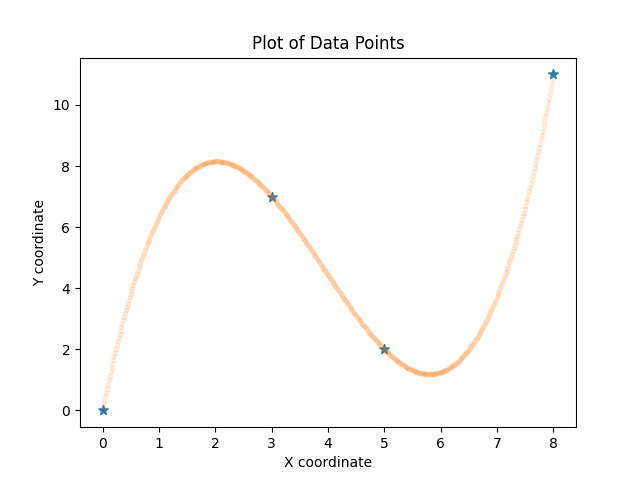
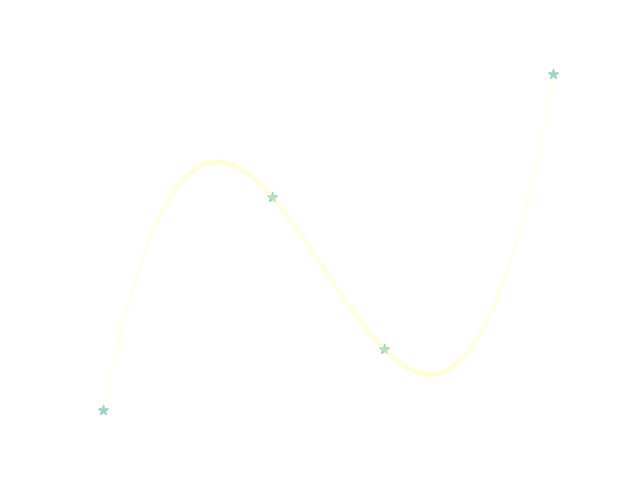
feat: make image transparent

diff --git a/scripts/interpolate.py b/scripts/interpolate.py
@@ -34,16 +34,21 @@ def plot_points(datapoints):
     xx = [x_min + i*step for i in range(n+1)]
     yy = [lagrange_interpolate(datapoints, xi) for xi in xx]
 
+
+    plt.style.use('dark_background')
+
     # Plot the points
     plt.scatter(x, y, marker='*', s=50)
-
     # Plot interpolated points
     plt.scatter(xx, yy, alpha=0.1, s=10)
     
     # Add labels and show the plot
     plt.xlabel('X coordinate')
     plt.ylabel('Y coordinate')
-    plt.title('Plot of Data Points')
+    plt.title('Lagrange interpolation')
+    
+    #save plot with transparent background
+    plt.savefig('../assets/img/interpolate.png', transparent=True)
     plt.show()
 
 
